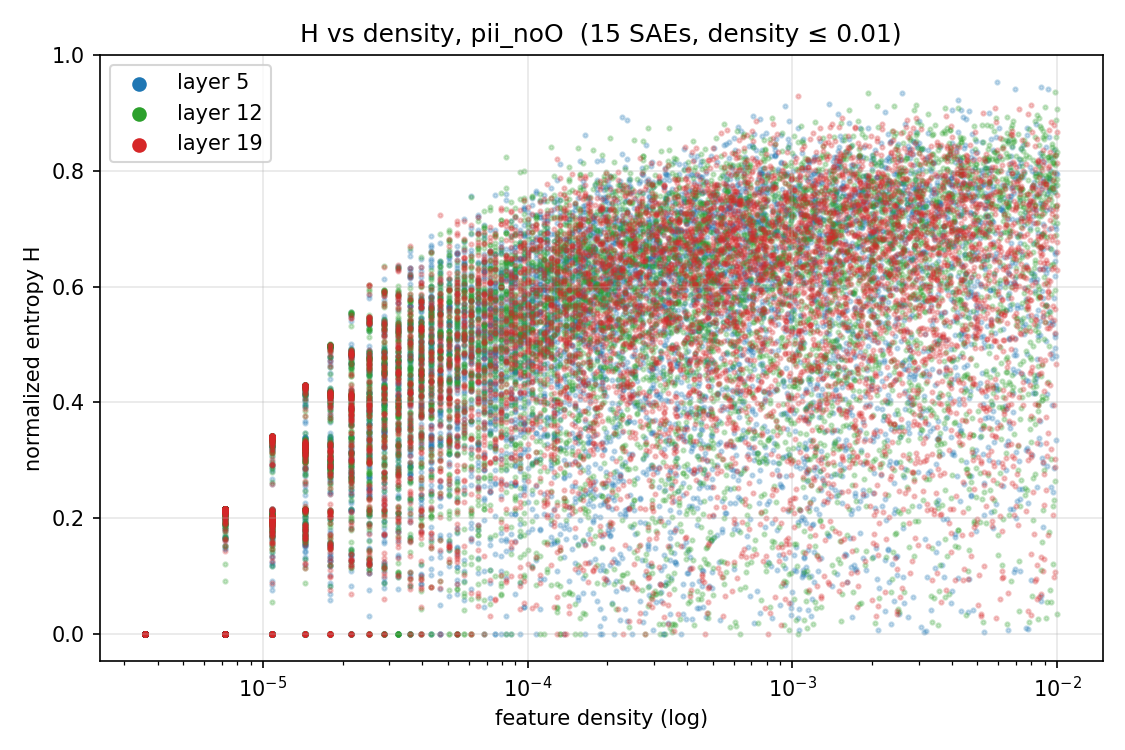
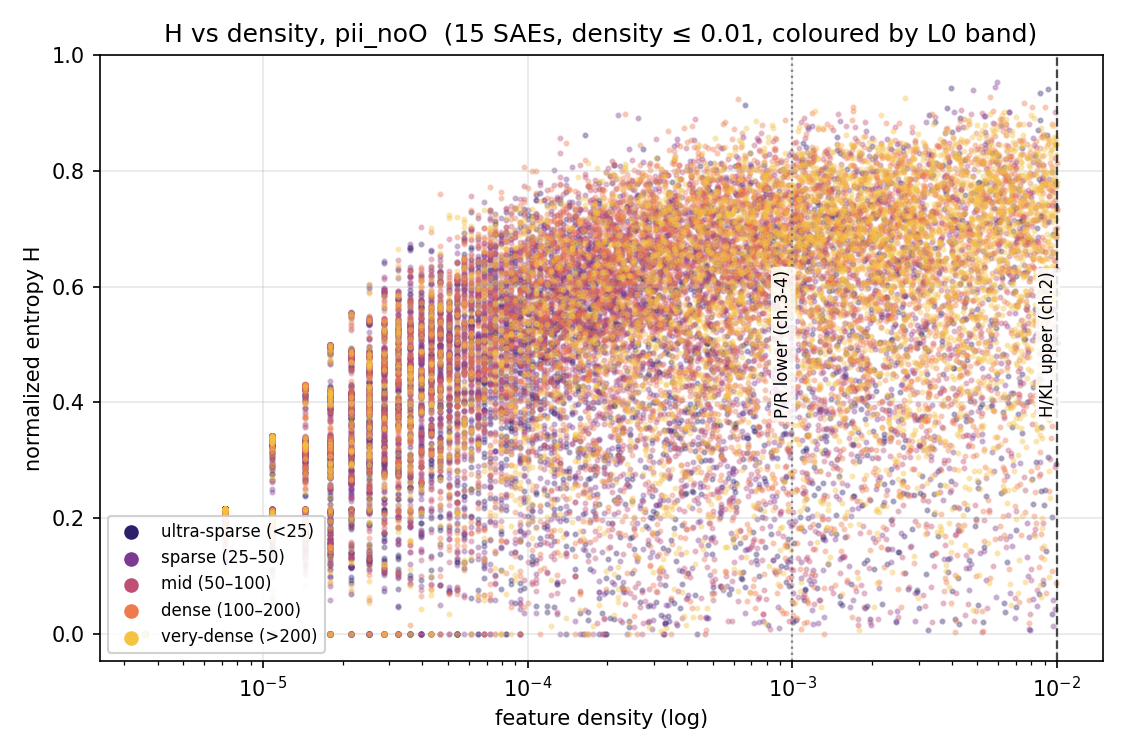
优化了2.4节

diff --git a/docs/figs/make_section2_figs.py b/docs/figs/make_section2_figs.py
@@ -125,28 +125,61 @@ plt.savefig(os.path.join(OUT, "fig_h_vs_l0_3panel.png"), dpi=150, bbox_inches="t
 plt.close()
 print("saved fig_h_vs_l0_3panel.png")
 
-# ── Fig B: H vs density scatter, pii_noO ───────────────────────────────────────
+# ── Fig B: H vs density scatter, pii_noO, coloured by L0 band ─────────────────
+def _l0_band_idx(l0):
+    if l0 < 25:
+        return 0
+    elif l0 < 50:
+        return 1
+    elif l0 < 100:
+        return 2
+    elif l0 < 200:
+        return 3
+    else:
+        return 4
+
+
+band_names = [
+    "ultra-sparse (<25)",
+    "sparse (25–50)",
+    "mid (50–100)",
+    "dense (100–200)",
+    "very-dense (>200)",
+]
+band_colors = ["#2e1f6b", "#7c3a93", "#c04f76", "#ee7b4c", "#f5c242"]
+
 fig, ax = plt.subplots(figsize=(7.5, 5))
 rng = np.random.default_rng(0)
-for layer in [5, 12, 19]:
+for bi, bname in enumerate(band_names):
     h_all = np.concatenate(
-        [r["h_filt"] for r in all_data["pii_noO (C=25, token)"] if r["layer"] == layer]
+        [r["h_filt"] for r in all_data["pii_noO (C=25, token)"] if _l0_band_idx(r["l0"]) == bi]
     )
     d_all = np.concatenate(
-        [r["dens_filt"] for r in all_data["pii_noO (C=25, token)"] if r["layer"] == layer]
+        [r["dens_filt"] for r in all_data["pii_noO (C=25, token)"] if _l0_band_idx(r["l0"]) == bi]
     )
-    if len(h_all) > 8000:
-        idx = rng.choice(len(h_all), 8000, replace=False)
+    if len(h_all) > 5000:
+        idx = rng.choice(len(h_all), 5000, replace=False)
         h_all, d_all = h_all[idx], d_all[idx]
-    ax.scatter(
-        d_all, h_all, s=4, alpha=0.25, color=layer_colors[layer], label=f"layer {layer}"
-    )
+    ax.scatter(d_all, h_all, s=4, alpha=0.3, color=band_colors[bi], label=bname)
+
+# reference lines: H/KL upper cut (this chapter), P/R lower floor (downstream)
+ax.axvline(1e-2, color="k", lw=1.1, ls="--", alpha=0.7)
+ax.axvline(1e-3, color="0.35", lw=1.1, ls=":", alpha=0.7)
+ax.text(
+    1e-2, 0.5, "H/KL upper (ch.2)", rotation=90, ha="right", va="center", fontsize=8,
+    bbox=dict(boxstyle="round,pad=0.2", fc="white", ec="none", alpha=0.85),
+)
+ax.text(
+    1e-3, 0.5, "P/R lower (ch.3-4)", rotation=90, ha="right", va="center", fontsize=8,
+    bbox=dict(boxstyle="round,pad=0.2", fc="white", ec="none", alpha=0.85),
+)
+
 ax.set_xscale("log")
 ax.set_xlabel("feature density (log)")
 ax.set_ylabel("normalized entropy H")
-ax.set_title("H vs density, pii_noO  (15 SAEs, density ≤ 0.01)")
+ax.set_title("H vs density, pii_noO  (15 SAEs, density ≤ 0.01, coloured by L0 band)")
 ax.grid(alpha=0.3)
-leg = ax.legend(markerscale=3)
+leg = ax.legend(markerscale=3, loc="lower left", fontsize=8, framealpha=0.9)
 for lh in leg.legend_handles:
     lh.set_alpha(1.0)
 plt.tight_layout()

diff --git a/docs/info_theory_summary.md b/docs/info_theory_summary.md
@@ -192,13 +192,15 @@ H 的取值落在 $[0, 1]$，但其分布能否充分展开，取决于数据集
 
 ### 2.4 H 与 density 的联合分布
 
-2.2 与 2.3 节的分析都是"按 SAE 聚合看均值"——每一个 (layer, L0) 格子给出一条均值线或一行表。这种视角回答了"哪种 SAE 更单义"，但无法回答"同一 SAE 内部，单义特征具体长在哪里"。本小节把视角下沉到**特征级别**，以 pii_noO 为例看 H 与 density 在特征空间中的联合结构：
+2.2 与 2.3 节的分析都是按 L0/layer 分组后看均值——2.2 以 L0 档汇总成表，2.3 按 layer × L0 展开成 3×5 格均值线。这种视角回答了"哪种 SAE 更单义"，但无法回答"同一 SAE 内部，单义特征具体长在哪里"。本小节把视角下沉到**特征级别**，以 pii_noO 为例看 H 与 density 在特征空间中的联合结构：
 
 ![H vs density scatter, pii_noO](figs/fig_h_vs_density.png)
 
-每个点是一个特征，颜色按 layer 区分，横轴 density 取 log，纵轴是 H；图中按本章 H/KL 统计口径剔除了 density $>10^{-2}$ 的高频特征（下界不设，因此横轴可延伸到 $\sim 10^{-5}$ 量级的极稀疏点）。散点揭示出一个清晰的**两段结构**。在低 density 区间（约 $10^{-4}$ 到 $10^{-3}$），H 的分布明显分成上下两层：上层贴近 1 的是多义特征，下层贴近 0 的是高度单义特征，二者并存；而在高 density 区间（约 $10^{-3}$ 到 $10^{-2}$），H 迅速向 0.7–1.0 区间收敛，低 H 特征几乎消失。也就是说，在当前结果中，**一旦特征激活得足够频繁，它通常也就不再单义**。
+**图 2.4** pii_noO 上 15 个 SAE 的特征级 $H$–density 联合分布（每档 L0 抽样 5000 点）。颜色按 L0 档位从稀疏（深紫）到稠密（橙黄）排序；黑虚线为本章 H/KL 的 $10^{-2}$ 上界，灰点线为下游 P/R 的 $10^{-3}$ 下界（本章不施加）。散点在低 density 区呈上下两层的 bi-modal 结构，在高 density 区向 $H \to 1$ 带收敛；图左下角 $\lesssim 10^{-4}$ 的 H≈0 条带为小样本伪影。
 
-这一结构为本章 H/KL 聚合统计**只设 density 上界**提供了经验理由：图中 density 趋近 $10^{-2}$ 时几乎只剩 $H\to 1$ 的多义特征，如果不把这类"高频多义"特征排除，会系统性抬高 $\text{mean }H$ 并压低 $\text{frac}(H<\cdot)$ 等尾部统计量，淹没稀疏档 SAE 本该呈现的低 H 信号——1.4 节的过滤口径选择正来自这一观察。至于密度**下限**（density 过小、$P(c\mid f)$ 估计方差大的区域），对分布级聚合影响很小，但会在按 top-k 挑候选时引入噪声，因此这一下界由下游 P/R 阶段（第 3、4 章）单独施加，本章不设。综合来看，**单义特征通常同时表现出较低频率与较强类别定向性**——这也是下一步把 $H$ 与 density 结合做候选筛选（第 3、4 章）的自然起点。
+每个点是一个特征，颜色按其所属 SAE 的 L0 档位从稀疏（深紫）到稠密（橙黄）排序，横轴 density 取 log，纵轴是 H；图中按本章 H/KL 统计口径剔除了 density $>10^{-2}$ 的高频特征（下界不设，横轴可延伸到 $\sim 10^{-5}$）。两条参考线标出本章 H/KL 的 $10^{-2}$ 上界（黑虚线）和下游 P/R 阶段的 $10^{-3}$ 下界（灰点线，本章不施加）。散点揭示出一个清晰的**两段结构**。在低 density 区间（约 $10^{-4}$ 到 $10^{-3}$），H 的分布明显分成上下两层：上层贴近 1 的是多义特征，下层贴近 0 的是高度单义特征，二者并存，且低 H 层里以深色（稀疏档）为主、暖色（稠密档）为辅——与 2.2 节"稀疏 → 单义"的趋势一致；在高 density 区间（约 $10^{-3}$ 到 $10^{-2}$），H 迅速向 0.7–1.0 区间收敛，低 H 特征几乎消失。也就是说，在当前结果中，**一旦特征激活得足够频繁，它通常也就不再单义**。需要警惕的是图左下角 $\lesssim 10^{-4}$ 的 H≈0 密集条带：该区特征在评估样本上仅有 1–2 次激活，$P(c\mid f)$ 因小样本几乎必然退化到单类，H≈0 是统计伪影而非真实单义性——这也正是下游 P/R 在 $10^{-3}$ 处设下界的直接原因。
+
+这一结构为本章 H/KL 聚合统计**施加 density 上界**提供了直接经验理由：图中 density 趋近 $10^{-2}$ 时几乎只剩 $H\to 1$ 的多义特征，如果不把这类"高频多义"特征排除，会系统性抬高 $\text{mean }H$ 并压低 $\text{frac}(H<\cdot)$ 等尾部统计量，淹没稀疏档 SAE 本该呈现的低 H 信号——1.4 节的过滤口径选择正来自这一观察。至于是否还要在下限上再过滤一层，对分布级聚合影响有限（低 density 伪影区特征虽多，但相对 SAE 间的均值排序而言属于同比例污染，不会改变稀疏 → 稠密的单调关系），却会在按 top-k 挑候选时直接影响结果，因此这一下界由下游 P/R 阶段（第 3、4 章）单独施加，本章不设。综合来看，**单义特征通常同时表现出较低频率与较强类别定向性**——这也是下一步把 $H$ 与 density 结合做候选筛选（第 3、4 章）的自然起点。
 
 ### 2.5 pii_withO 设定下的 H 解读陷阱
 
